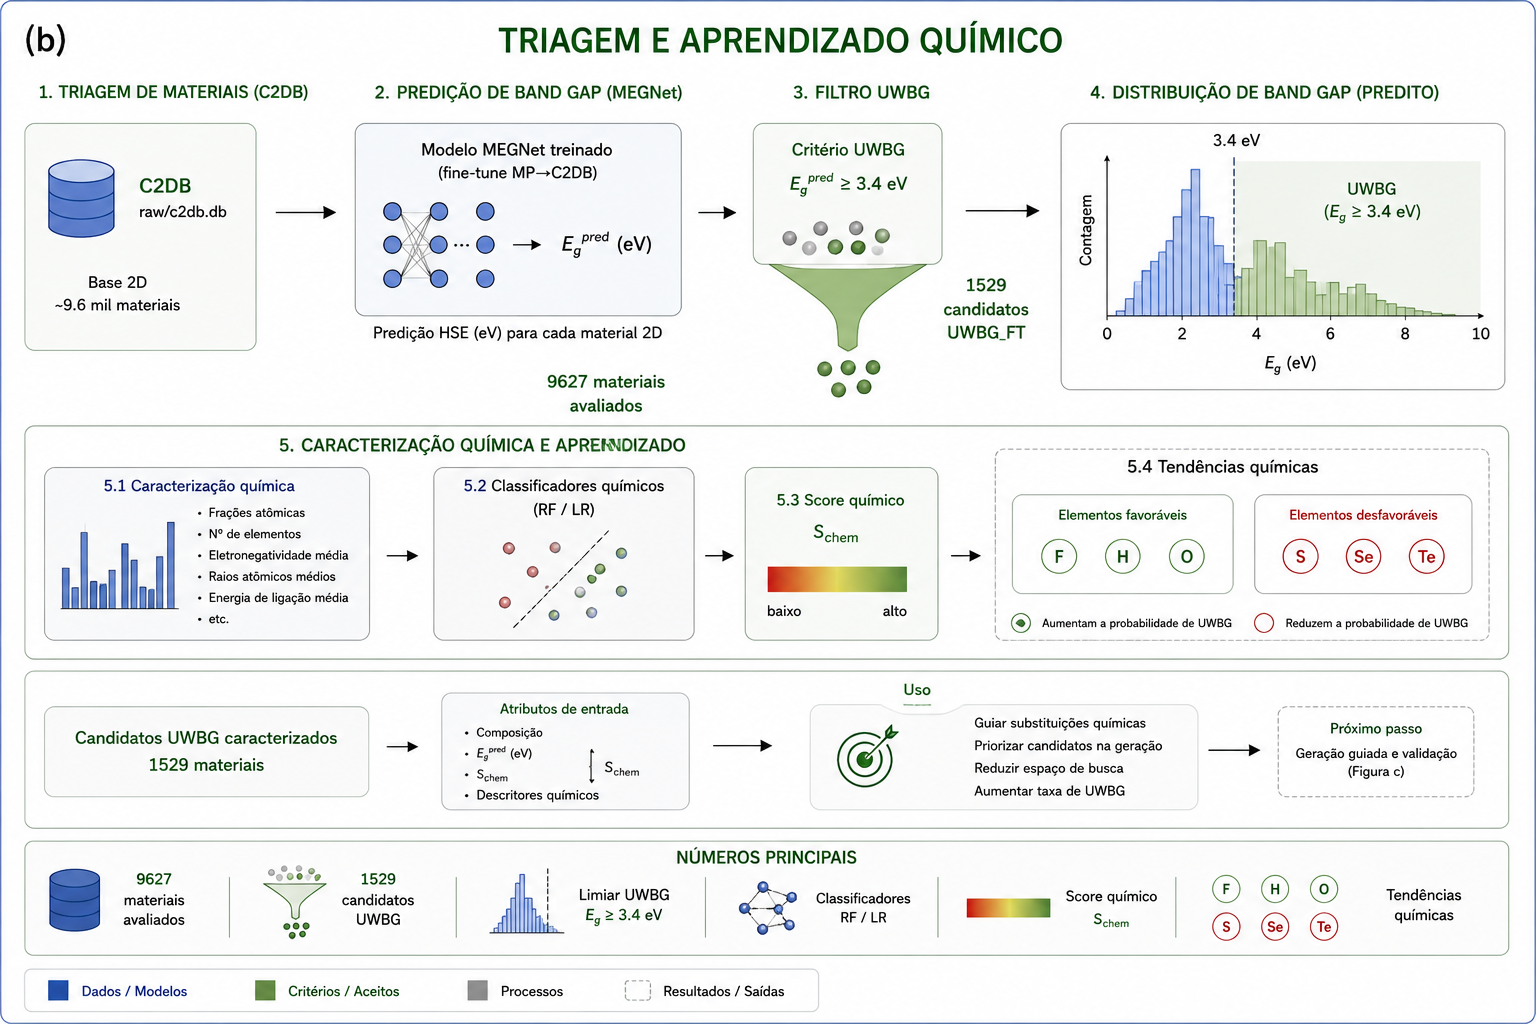
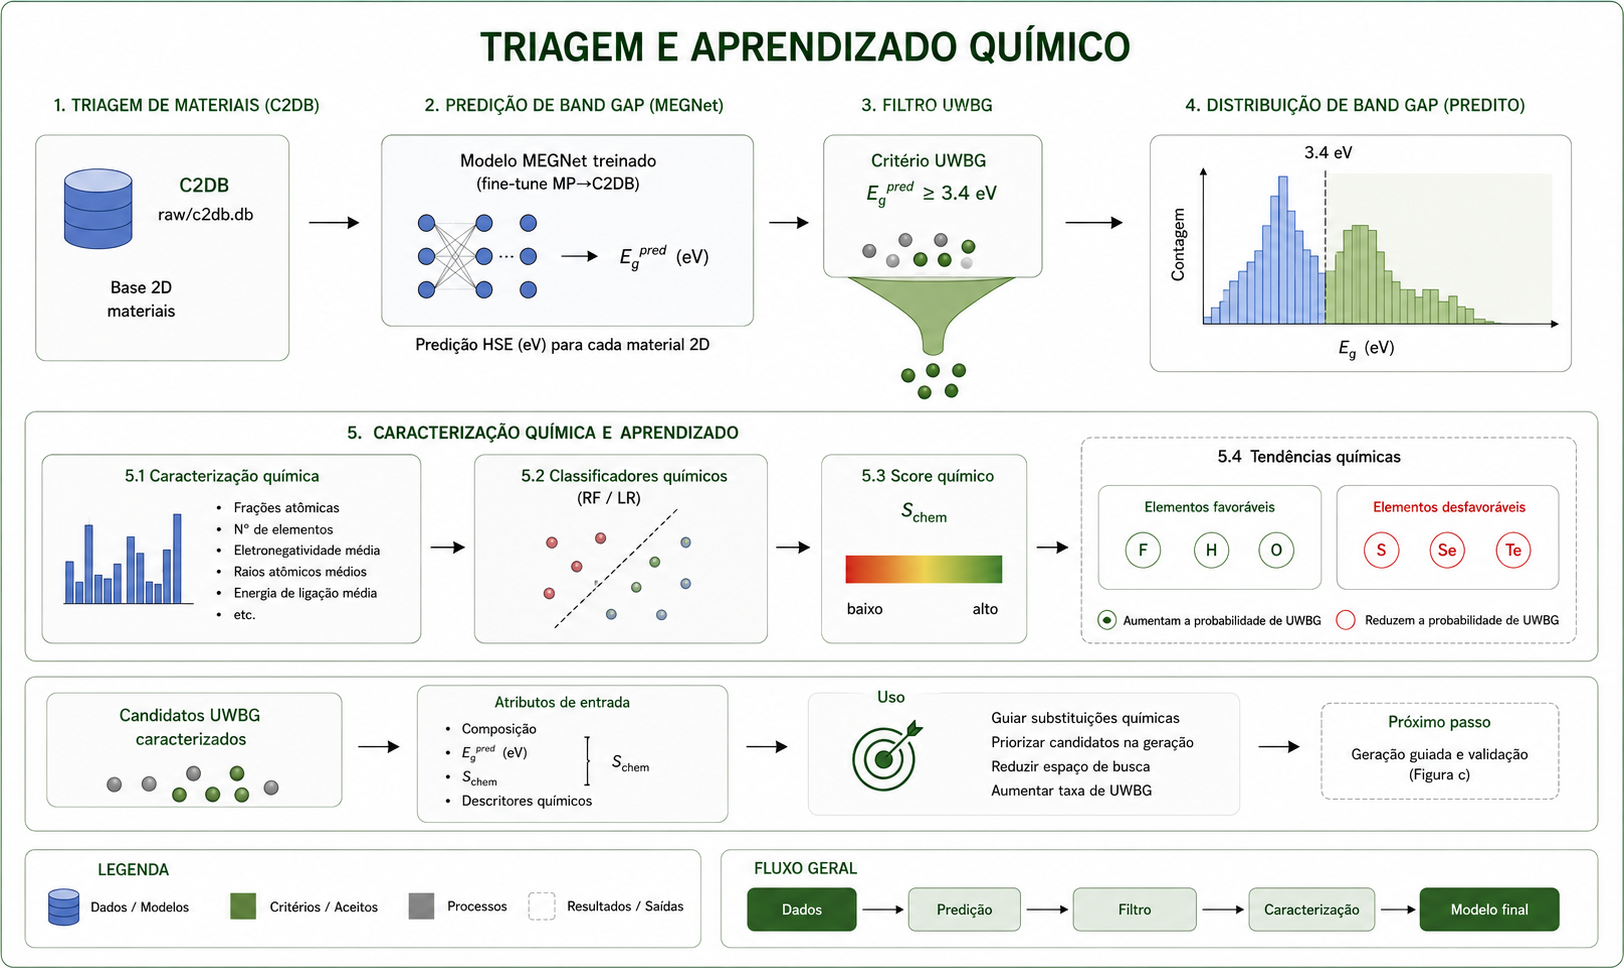
Use final TCC figures on Pages article

diff --git a/docs/index.html b/docs/index.html
@@ -57,8 +57,8 @@
           </p>
 
           <figure>
-            <img src="assets/visao-geral.png" alt="Visão geral do pipeline de dados, triagem e geração guiada.">
-            <figcaption>Figura 1 — Visão geral do pipeline: dados e treinamento, triagem com aprendizado químico e geração guiada.</figcaption>
+            <img src="assets/pipeline-final.png" alt="Fluxograma final do pipeline metodológico.">
+            <figcaption>Figura 1 — Pipeline final do trabalho, com treinamento, triagem, aprendizado químico, geração guiada, relaxação e verificação externa.</figcaption>
           </figure>
 
           <div class="grid two">
@@ -201,10 +201,77 @@
             <figcaption>Figura 13 — Geração guiada, checagem de novidade, relaxação M3GNet e reavaliação do <em>bandgap</em>.</figcaption>
           </figure>
 
+          <div class="grid two">
+            <figure>
+              <img src="assets/criterio-novidade-c2db.png" alt="Critério de novidade por fórmula reduzida e layer group.">
+              <figcaption>Figura 14 — Critério de novidade usado para separar materiais conhecidos, novas composições e composições conhecidas em outro <em>layer group</em>.</figcaption>
+            </figure>
+            <figure>
+              <img src="assets/relaxacao-m3gnet.png" alt="Esquema de relaxação estrutural com M3GNet e reavaliação com MEGNet.">
+              <figcaption>Figura 15 — Relaxação geométrica aproximada com M3GNet seguida de reavaliação do <em>bandgap</em> pelo MEGNet.</figcaption>
+            </figure>
+          </div>
+
           <figure>
             <img src="assets/geracao-comparacao.png" alt="Comparação entre geração baseline e geração guiada.">
-            <figcaption>Figura 14 — Comparação entre geração baseline e geração guiada por tendências químicas.</figcaption>
+            <figcaption>Figura 16 — Comparação entre geração baseline e geração guiada por tendências químicas.</figcaption>
           </figure>
+        </section>
+
+        <section id="dft">
+          <h2>Verificação externa com DFT</h2>
+          <p>
+            A verificação externa foi usada para testar o comportamento do pipeline em estudos de caso específicos.
+            Ela não substitui uma validação ampla, mas ajuda a delimitar quando as predições do MEGNet são coerentes
+            com cálculos DFT e quando a geometria relaxada pelo M3GNet pode introduzir desvios relevantes.
+          </p>
+
+          <figure>
+            <img src="assets/comparacao-megnet-dft.png" alt="Comparação entre bandgaps preditos pelo MEGNet e resultados DFT externos.">
+            <figcaption>Figura 17 — Comparação entre predições MEGNet e resultados DFT externos antes e depois da relaxação.</figcaption>
+          </figure>
+
+          <div class="grid three">
+            <figure>
+              <img src="assets/bof-vista-superior.png" alt="Estrutura BOF vista superior.">
+              <figcaption>Figura 18 — BOF, vista superior.</figcaption>
+            </figure>
+            <figure>
+              <img src="assets/baf2-vista-superior.png" alt="Estrutura BaF2 vista superior.">
+              <figcaption>Figura 19 — BaF<sub>2</sub>, vista superior.</figcaption>
+            </figure>
+            <figure>
+              <img src="assets/lif-vista-superior.png" alt="Estrutura LiF vista superior.">
+              <figcaption>Figura 20 — LiF, vista superior.</figcaption>
+            </figure>
+            <figure>
+              <img src="assets/bof-vista-lateral.png" alt="Estrutura BOF vista lateral.">
+              <figcaption>Figura 21 — BOF, vista lateral.</figcaption>
+            </figure>
+            <figure>
+              <img src="assets/baf2-vista-lateral.png" alt="Estrutura BaF2 vista lateral.">
+              <figcaption>Figura 22 — BaF<sub>2</sub>, vista lateral.</figcaption>
+            </figure>
+            <figure>
+              <img src="assets/lif-vista-lateral.png" alt="Estrutura LiF vista lateral.">
+              <figcaption>Figura 23 — LiF, vista lateral.</figcaption>
+            </figure>
+          </div>
+
+          <div class="grid three">
+            <figure>
+              <img src="assets/bof-estrutura-de-bandas.png" alt="Estrutura de bandas do BOF.">
+              <figcaption>Figura 24 — Estrutura de bandas do BOF.</figcaption>
+            </figure>
+            <figure>
+              <img src="assets/baf2-estrutura-de-bandas.png" alt="Estrutura de bandas do BaF2.">
+              <figcaption>Figura 25 — Estrutura de bandas do BaF<sub>2</sub>.</figcaption>
+            </figure>
+            <figure>
+              <img src="assets/lif-estrutura-de-bandas.png" alt="Estrutura de bandas do LiF.">
+              <figcaption>Figura 26 — Estrutura de bandas do LiF.</figcaption>
+            </figure>
+          </div>
         </section>
 
         <section id="interpretacao">
@@ -247,4 +314,3 @@
     </footer>
   </body>
 </html>
-

diff --git a/docs/styles.css b/docs/styles.css
@@ -187,6 +187,19 @@ figcaption {
   grid-template-columns: repeat(2, minmax(0, 1fr));
 }
 
+.grid.three {
+  grid-template-columns: repeat(3, minmax(0, 1fr));
+}
+
+.pdf-grid embed {
+  display: block;
+  width: 100%;
+  min-height: 360px;
+  border: 0;
+  border-radius: 12px;
+  background: #f1f4f9;
+}
+
 .metrics {
   display: grid;
   grid-template-columns: repeat(3, minmax(0, 1fr));
@@ -240,6 +253,7 @@ footer p {
 
 @media (max-width: 820px) {
   .grid.two,
+  .grid.three,
   .metrics {
     grid-template-columns: 1fr;
   }
@@ -276,4 +290,3 @@ footer p {
     box-shadow: none;
   }
 }
-